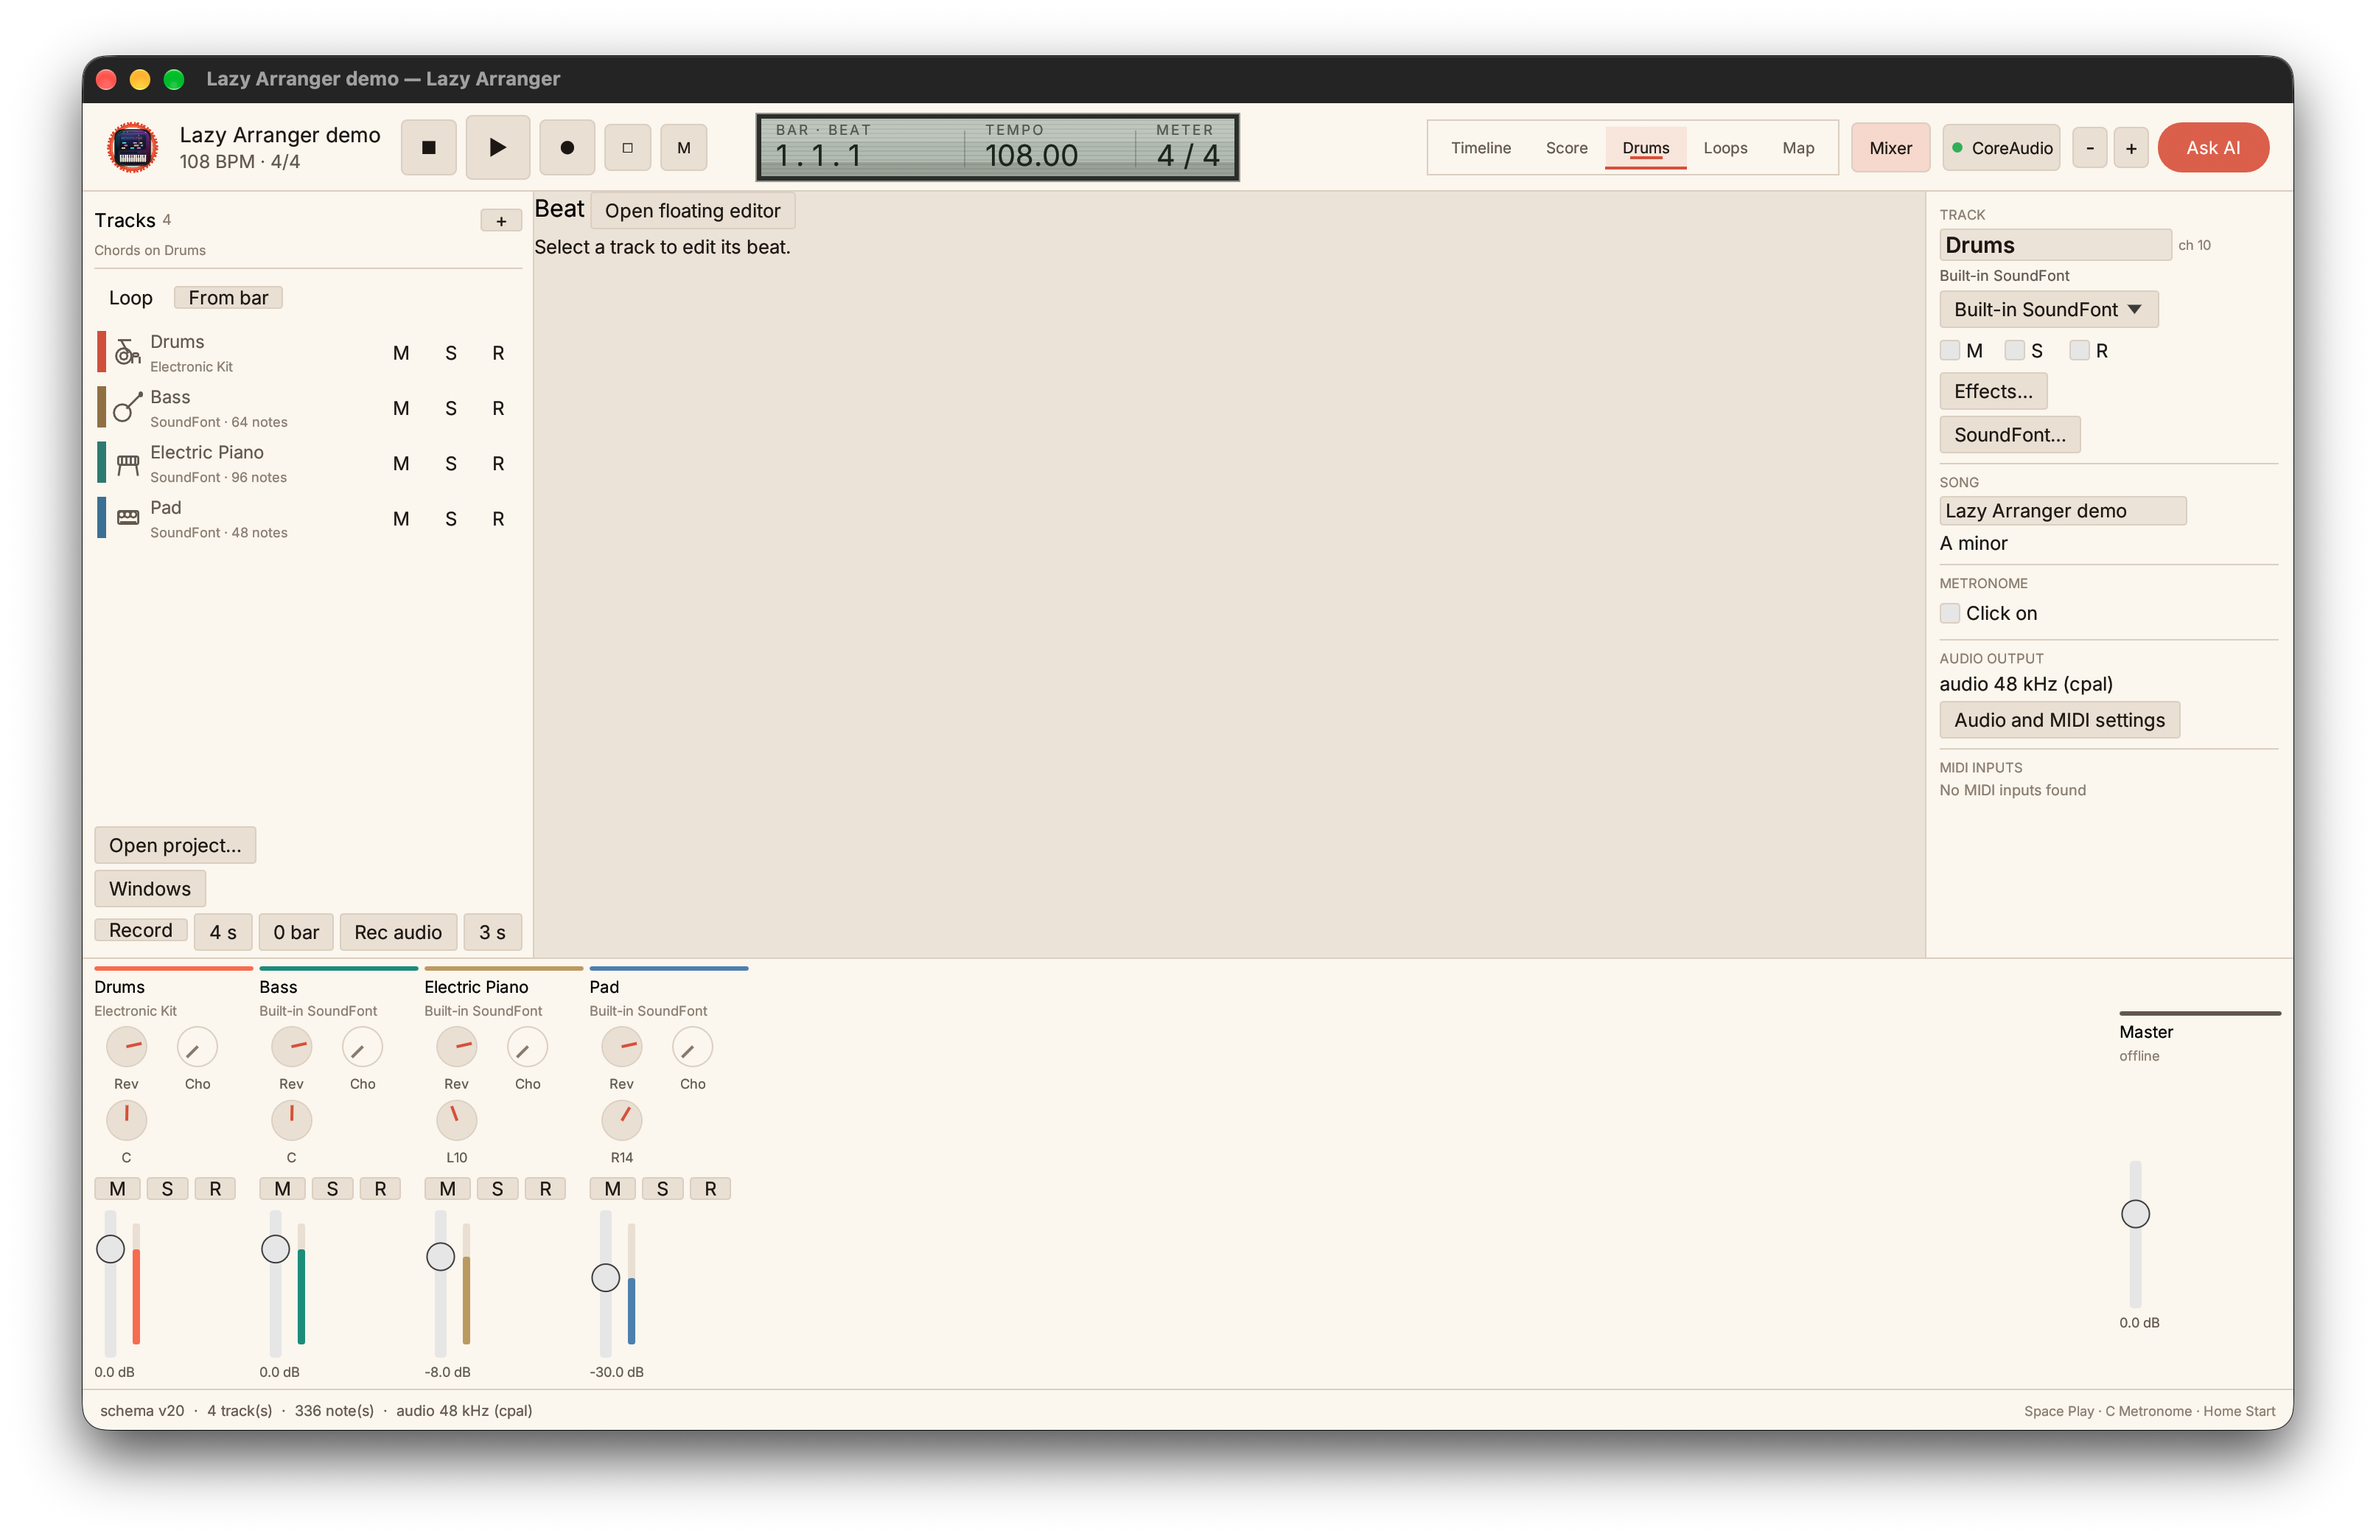
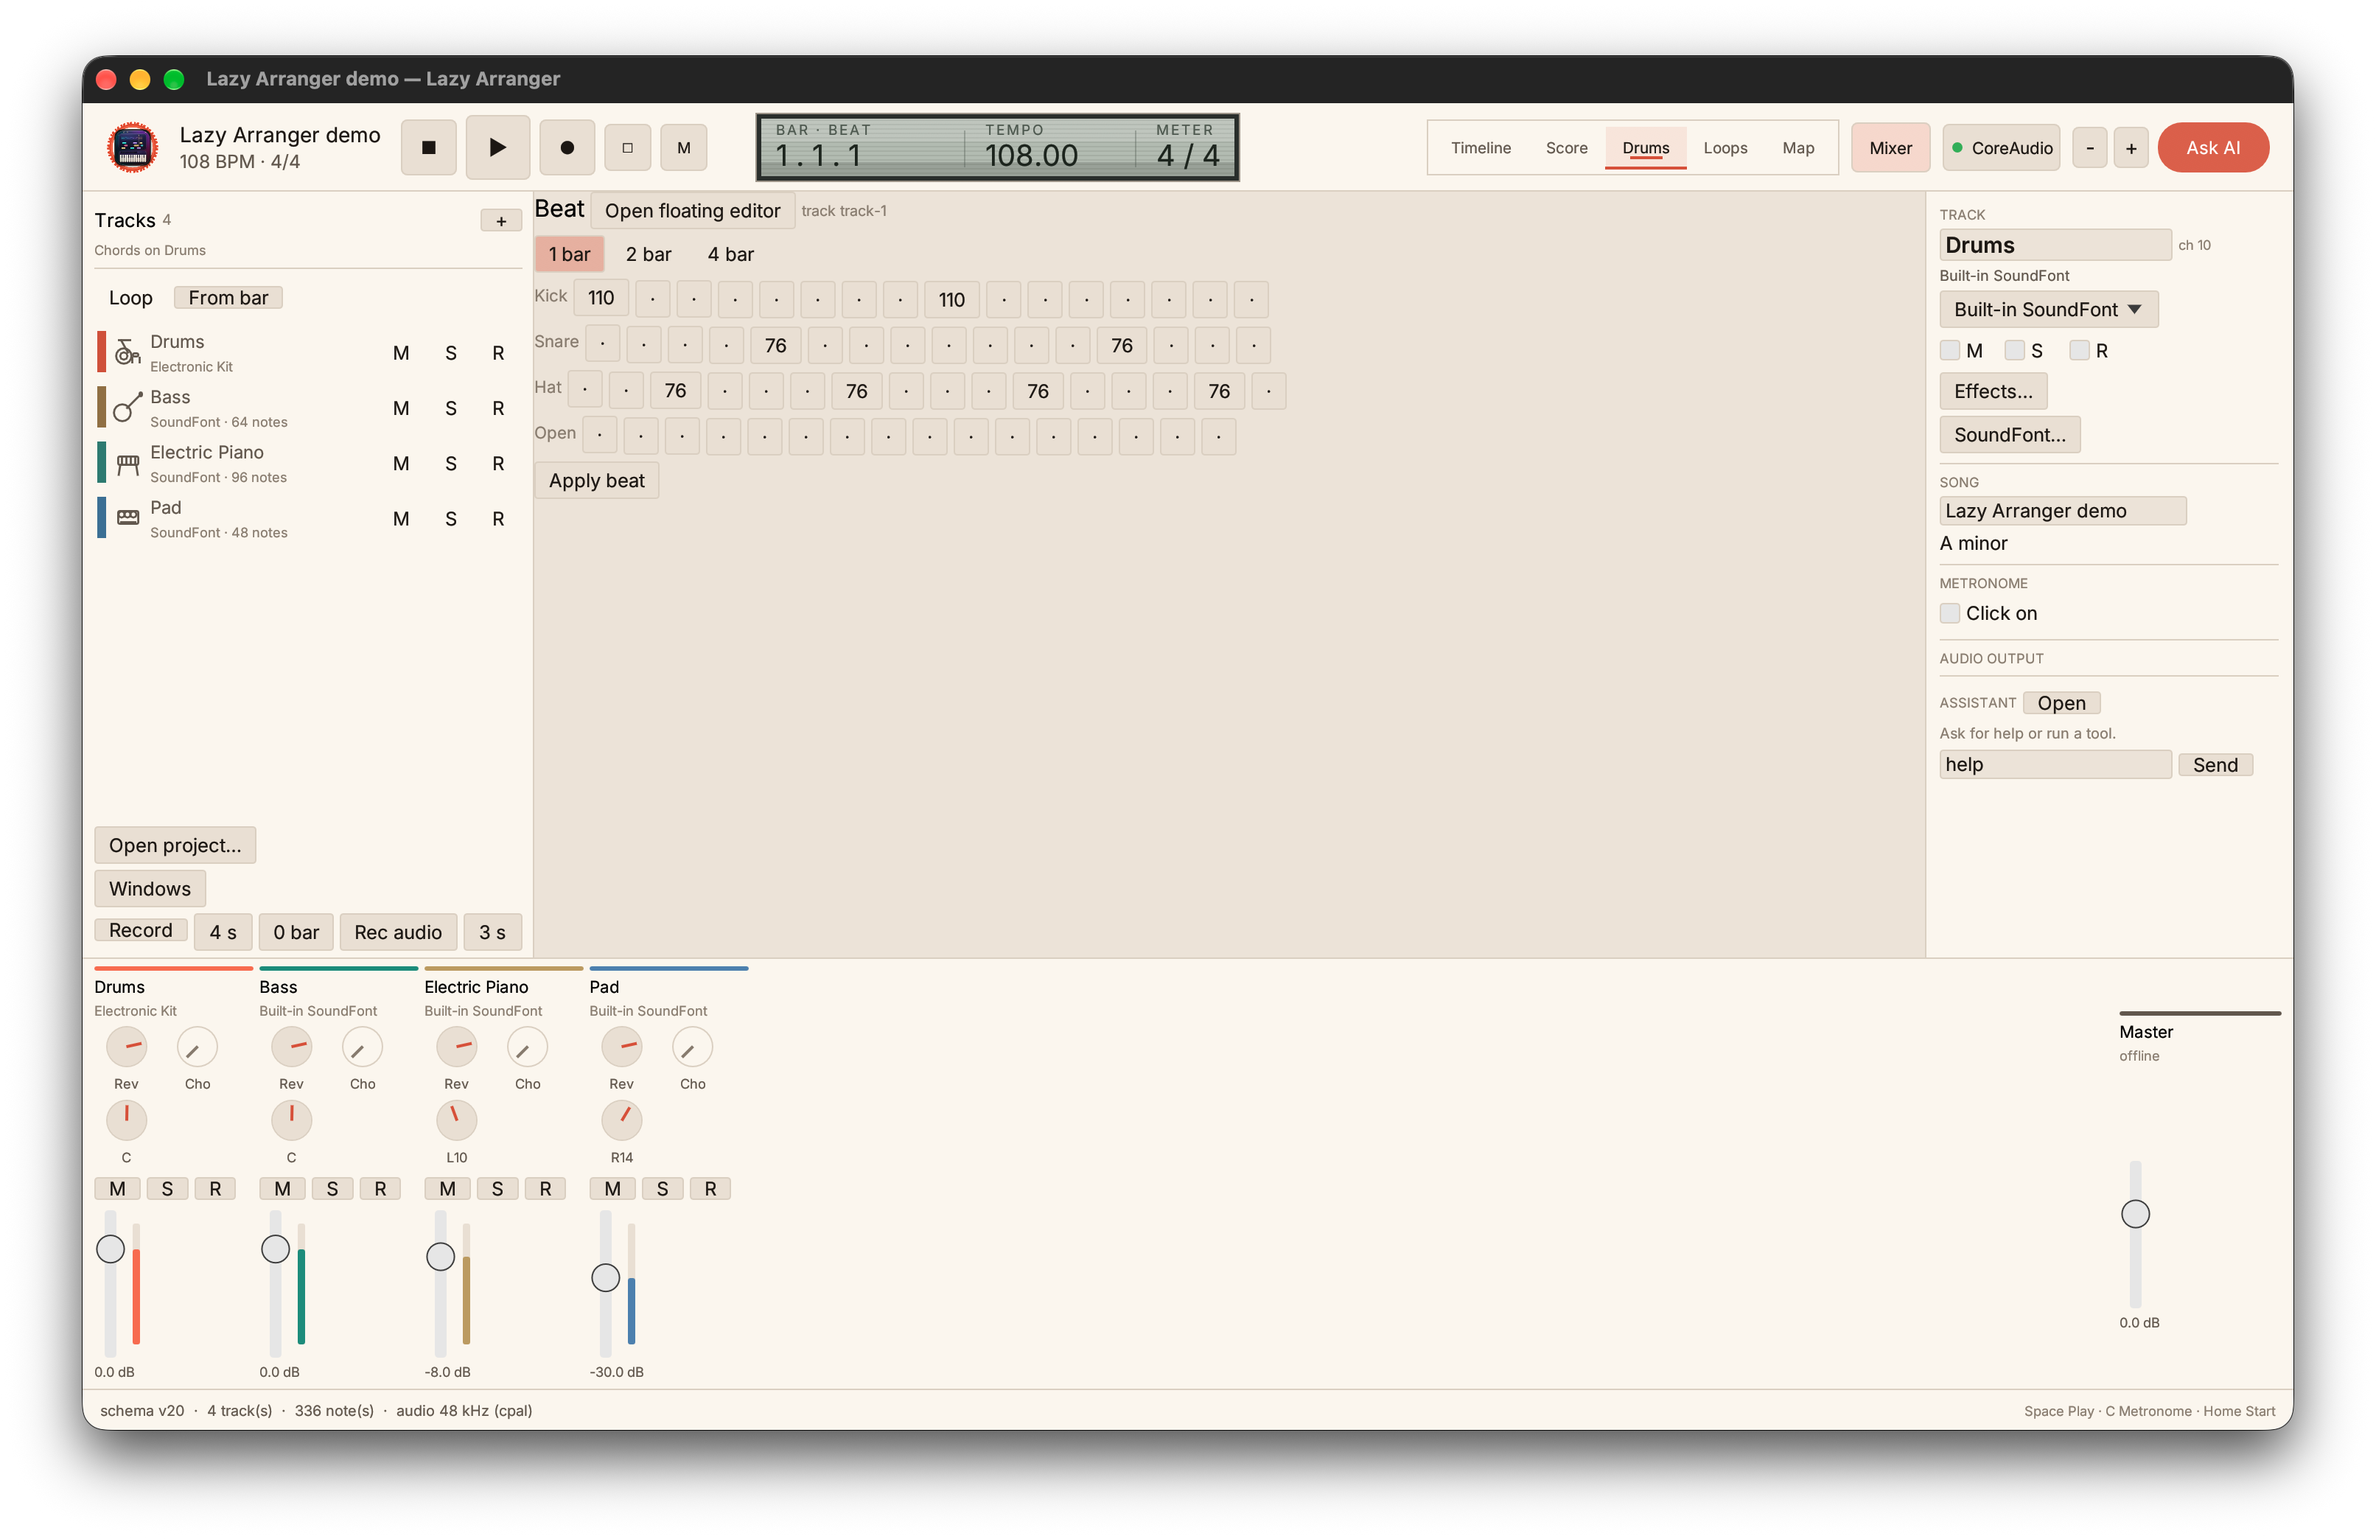
fix(desktop): load the beat grid when Drums is shown
Initializes the selected track's pattern on entering Drums (including the
ARRANGER_VIEW override) and labels the grid with the track name; refreshes the
Drums and Map captures.

710 tests pass; clippy, fmt and rustdoc clean.

Changed region(s): [[0.8065, 0.4358, 0.9615, 0.5292], [0.2171, 0.1557, 0.3412, 0.1868]]

diff --git a/apps/desktop/src/app.rs b/apps/desktop/src/app.rs
@@ -7841,6 +7841,12 @@ impl eframe::App for ShellApp {
         if self.settings.kids_mode && self.view.index() > 1 {
             self.view = View::Arrange;
         }
+        if self.view == View::Drums
+            && (self.beat_track.is_none()
+                || (self.roll.selected.is_some() && self.roll.selected != self.beat_track))
+        {
+            self.load_beat();
+        }
         self.run_autosave();
         self.recovery_dialog(context);
         self.chord_dialog(context);
@@ -8148,8 +8154,17 @@ impl eframe::App for ShellApp {
                                 self.beat_dialog = true;
                             }
                             if let Some(track) = self.beat_track {
+                                let name = project
+                                    .song
+                                    .tracks
+                                    .iter()
+                                    .find(|entry| entry.id == track)
+                                    .map_or_else(
+                                        || format!("track {track}"),
+                                        |entry| entry.name.clone(),
+                                    );
                                 ui.label(
-                                    egui::RichText::new(format!("track {track}"))
+                                    egui::RichText::new(name)
                                         .size(10.0)
                                         .color(theme::text_dim()),
                                 );
